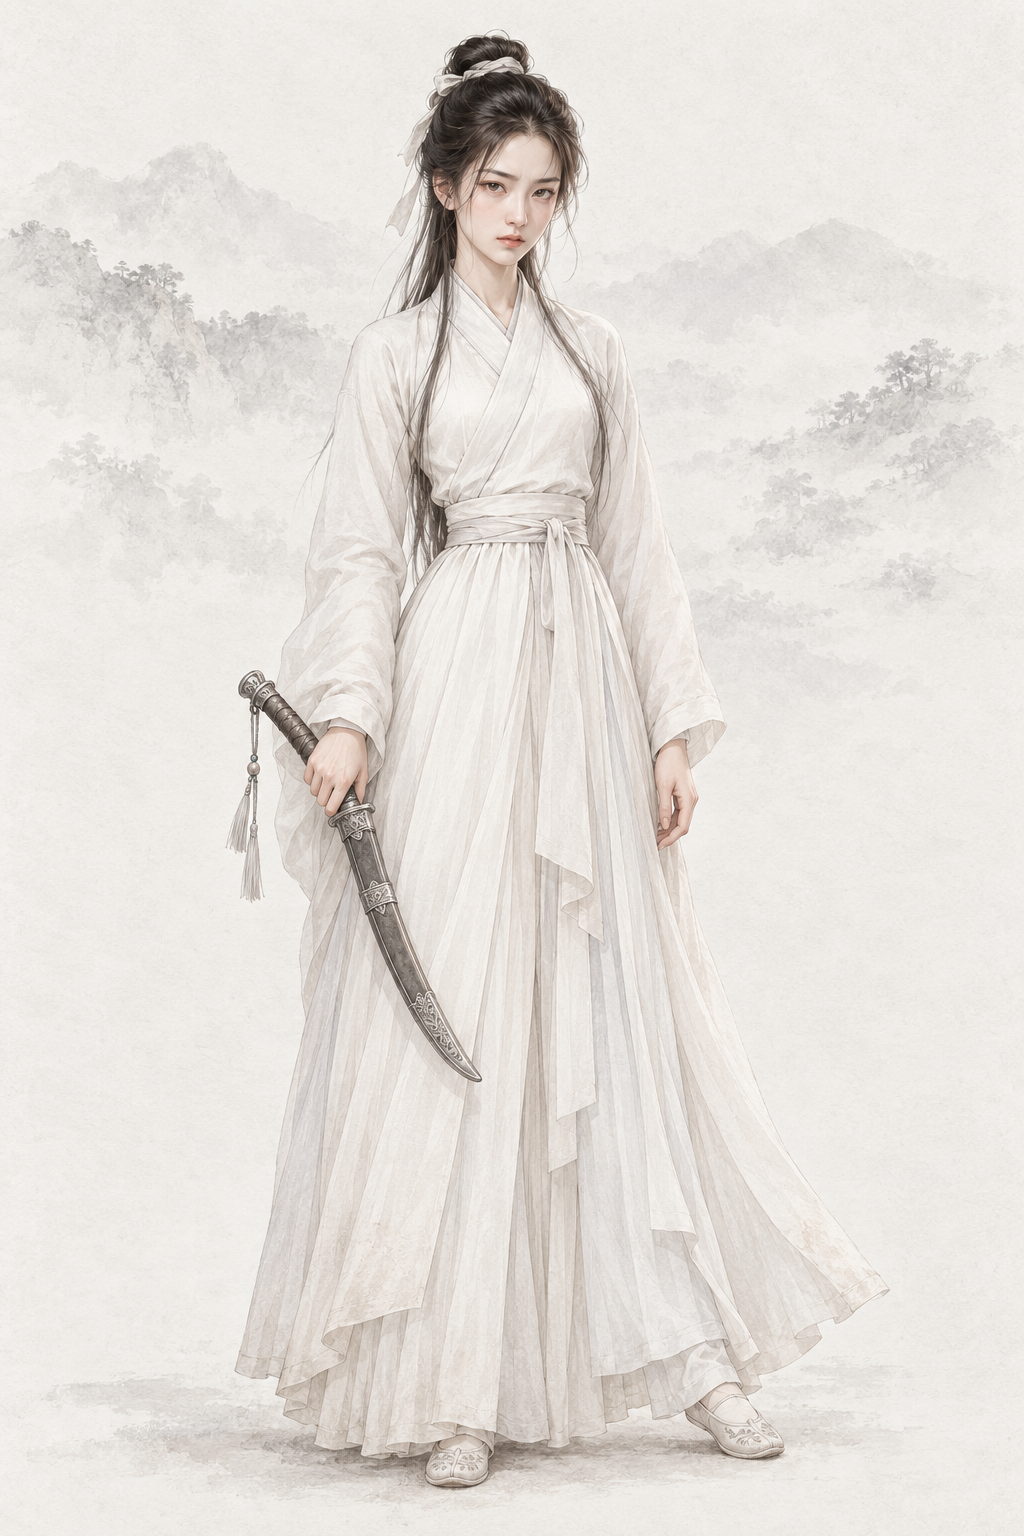
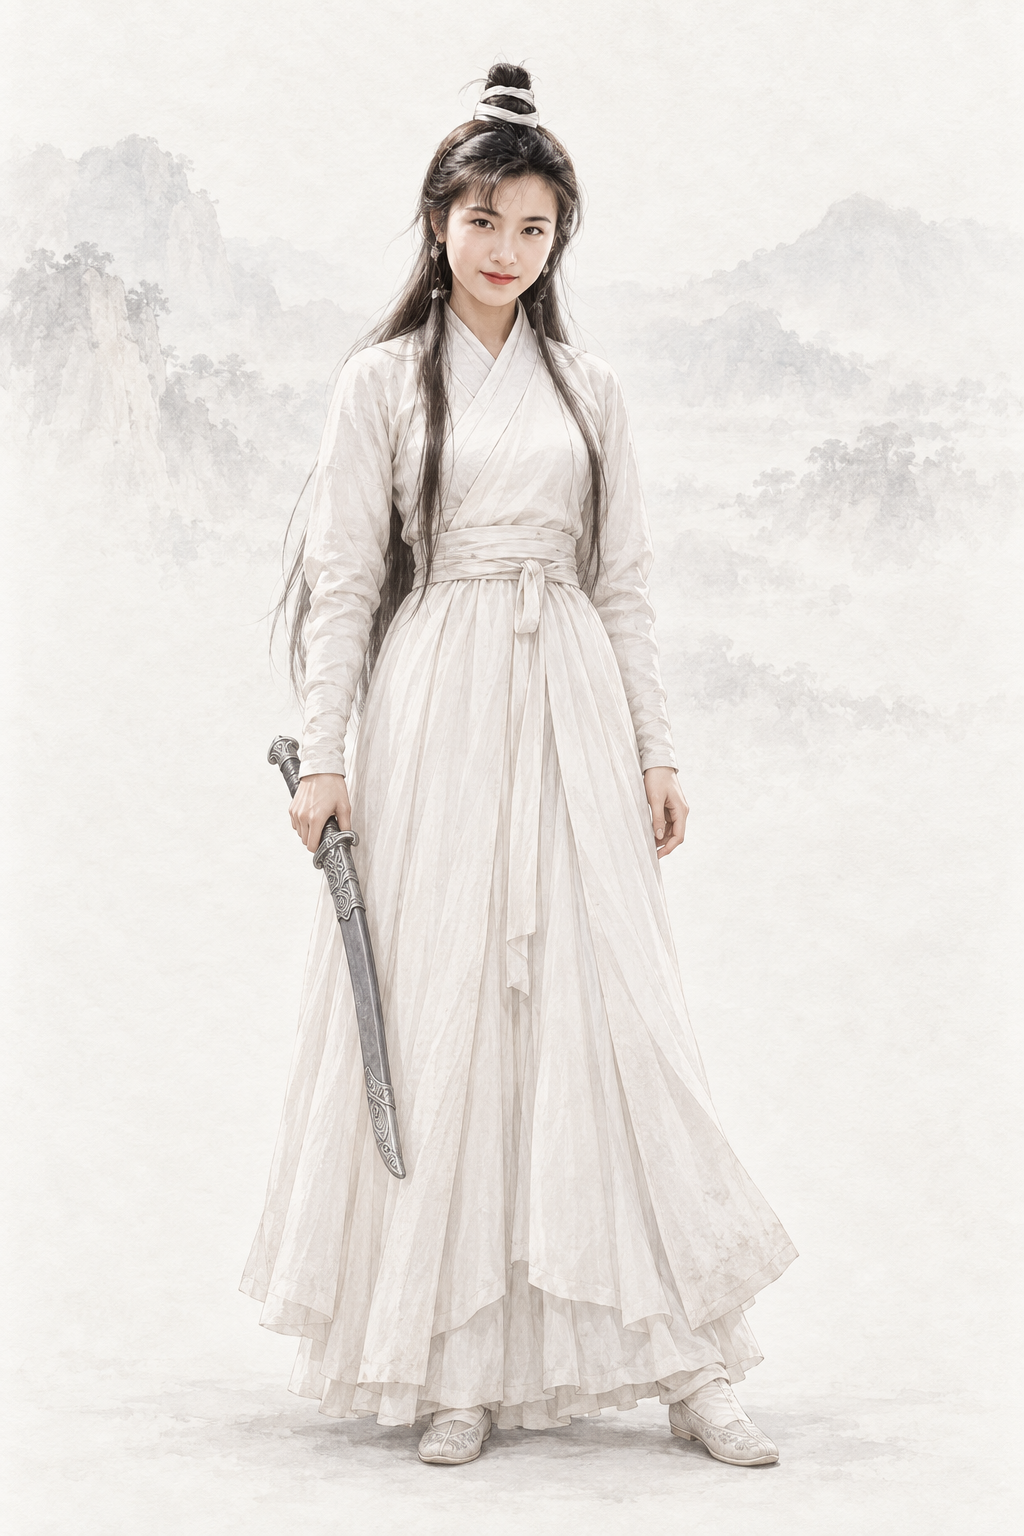
assets(character): por_npc_luwushuang__ch03_youth_lame_base 陆无双（codex · AR-32 经典剧照 + 基线）
参考 1995 TVB《神雕侠侣》 剧照（luwushuang_1995_jianpeiyun.jpg）与两张同性别基线重出；提示词写回、frontmatter 加 classic_ref。

diff --git a/assets/default/prompts/characters/ch03-shendiao/npc_luwushuang.md b/assets/default/prompts/characters/ch03-shendiao/npc_luwushuang.md
@@ -16,13 +16,40 @@ references:
 status: redo
 realism_revision: user_identity_pose_20261001
 redo_reason: "旧图以剧照为第一身份参考生成（A 级肖像风险；REVIEW-portraits-A 待作者裁定项，按默认重出），按原著外貌用文字原创重做"
-reference_upload: []
+reference_upload:
+- .agents/coord/imagegen-reference/identity-20261001/shendiao/luwushuang_1995_jianpeiyun.jpg
+- assets/default/baseline/character/female/ref_npc_wangyuyan__ch01_base01.png
+- assets/default/baseline/character/female/ref_npc_xiaolongnv__ch03_base01.png
 codex_prompt_rev: 2026-10-02
+classic_ref:
+  version: 1995 TVB《神雕侠侣》
+  stills:
+  - .agents/coord/imagegen-reference/identity-20261001/shendiao/luwushuang_1995_jianpeiyun.jpg
 ---
 
 # 陆无双 · 人物写实修正
 
 ## Gemini 提示词
+
+> 2026-10-02 AR-32 重出（5 号出图员，codex exec · image_gen）：主要角色改为参考经典影视版剧照加项目基线生成。上传顺序：1995 TVB《神雕侠侣》 剧照 1 张（luwushuang_1995_jianpeiyun.jpg），最后两张为同性别画风基线（缩小版 JPEG）。剧照只借造型、气质与面部特征，画面按项目画风重绘、不复制照片。上一版（AR-31 文字版）保留在下一节作历史。
+
+```text
+生成一张 2:3 竖幅全身人物立绘：单人、单一视角、完整全身——头顶、双手、双脚和手中器物的两端都在画面内，四周留出自然空白；人物站姿自然，身体基本朝向正面，头部端正（不歪头、不仰不俯），镜头平视。
+【画风】写实手绘古风人物插画，与本项目写实武侠角色立绘同一画风，像功力深厚的画师用细腻笔触画出的真实美人。手绘插画质感，不是 CG 渲染：不要过度光滑的皮肤、完美对称的五官、塑料高光、过度锐利的发丝；保留自然的笔触和细微不完美。肌肤细腻自然，看得见极细的肤理和自然的左右不对称，不磨皮、不油亮、不打粉；头发是一缕缕自然的发丝和少量碎发；布料看得出经纬纹理、厚薄和自然垂坠的褶皱，干净完整；整体设色低饱和、雅致；柔和的自然光从左上方照来，明暗过渡自然，不打舞台光、轮廓光或美颜柔光。不是照片，不是三维渲染，不是动漫或游戏 CG，也不是油画（没有厚涂笔触和画布纹理）。
+【背景】不透明的暖浅灰色纸底，只在远处有极淡的水墨远山和薄雾，大面积留白；人物与背景明暗分明、轮廓边缘干净完整（后续要自动抠图），水墨和纸纹只在背景里，不侵入人物和衣服；脚下只有很淡的一点接触阴影。
+【人物】陆无双，《神雕侠侣》陆立鼎之女，被李莫愁掳去做弟子；在驿路上初遇杨过、逃离师门的早期阶段。伶牙俐齿、倔强好胜，一只脚有点跛。
+【年龄与体态】约二十岁的成年年轻女子，身材纤巧；原著跛足——左脚微跛，站立时重心落在右腿，左脚脚尖轻点地面（左右待考）。成年女性的五官骨相与身体比例（约 7 头身），衣着完整端庄、不透明、不暴露、不性感化。
+【经典造型】以九十年代中期经典港剧里那位俏丽倔强的陆无双为蓝本（见剧照）：俏丽的脸、灵动倔强的眼睛、带一点刁蛮的笑；乌发挽髻、用白色布带束住；一身白衣。
+【面容】俏丽的瓜子脸；眉毛细而上挑；一双灵动的眼睛，眼神倔强、带几分刁蛮；鼻梁秀挺；薄唇，嘴角带一点尖刻的笑；肌肤白净。俏丽灵动的美人（原创扩展）。
+【发式】乌发挽成利落的发髻，用白色布带束住。
+【服饰】白色交领右衽窄袖衫、白色长裙（裙内有长裤），素白腰带，布鞋；行路的风尘让衣角有一点旧。
+【道具】右手握一柄银色的弯刀，完整收在银灰色刀鞘里。
+【姿态与神情】站着，神情倔强、带一点戒备和机灵。
+【不要】画面里不要任何文字、题款、印章、签名、水印、边框、分格或多视图；不要第二个人；不要幼态（童颜、娃娃脸、婴儿肥、儿童或少年身材、大头小身）；不要塑料感皮肤、磨皮美颜、网红脸（尖下巴大眼高鼻的模板脸）、过度对称、浓妆、偶像式打光、蜡像感；不要照片质感、三维渲染或动漫大眼；不要歪头、斜镜头；不要多指、缺指（设定的伤残除外）、手与器物粘连或悬空；汉式交领必须右衽（穿着者的左襟压在右襟上），不要左衽（设定为少数民族服制的除外），不要水平镜像；不要现代物品、发光特效、法阵或能量光。不要娃娃脸、少女身材；不要与程英撞脸；不要出鞘的刀；不要血迹。
+【参考图】随提示词上传的参考图共 3 张，按顺序：第 1 张是这个角色经典影视造型的剧照：借鉴其发型、服饰、配色、标志道具、气质和面部特征，让人一眼认出是这个角色；但必须重新绘制成本项目的画风，不要照片质感，不要照搬剧照的构图、光影、背景和姿势，也不要做成照片修图；剧照与上文文字有出入时，以上文文字为准。最后两张是本项目的立绘画风基线：画风、用色、光线、质感和暖浅灰纸底加淡水墨的背景以它们为准——精细写实的数字手绘插画，不是油画，不要厚涂笔触和画布纹理；基线图里人物的长相、年龄、发型、服饰和姿势一律不取。
+```
+
+## AR-31 文字版 Gemini 提示词（2026-10-02 凌晨；AR-32 剧照版之前，历史，不再用于出图）
 
 > 2026-10-02 按原著外貌以文字重写（文字稿由 1 号出图员起草，3 号出图员写回并出图；codex exec · image_gen）：旧图以剧照为第一身份参考生成，属 `tools/agents/reports/REVIEW-portraits-A-ch00-04.md` 的「剧照派生 A 级配角 · 待作者裁定」项，协调者按默认转为本轮重出。不写演员名、不用剧照、原创面孔，禁止幼态；出图只上传两张同性别基线立绘作画风参考，不上传身份参考（`reference_upload: []`）。frontmatter 的 `references` 与本节以下的旧提示词是旧出图管线的历史记录，不再用于出图。
 
